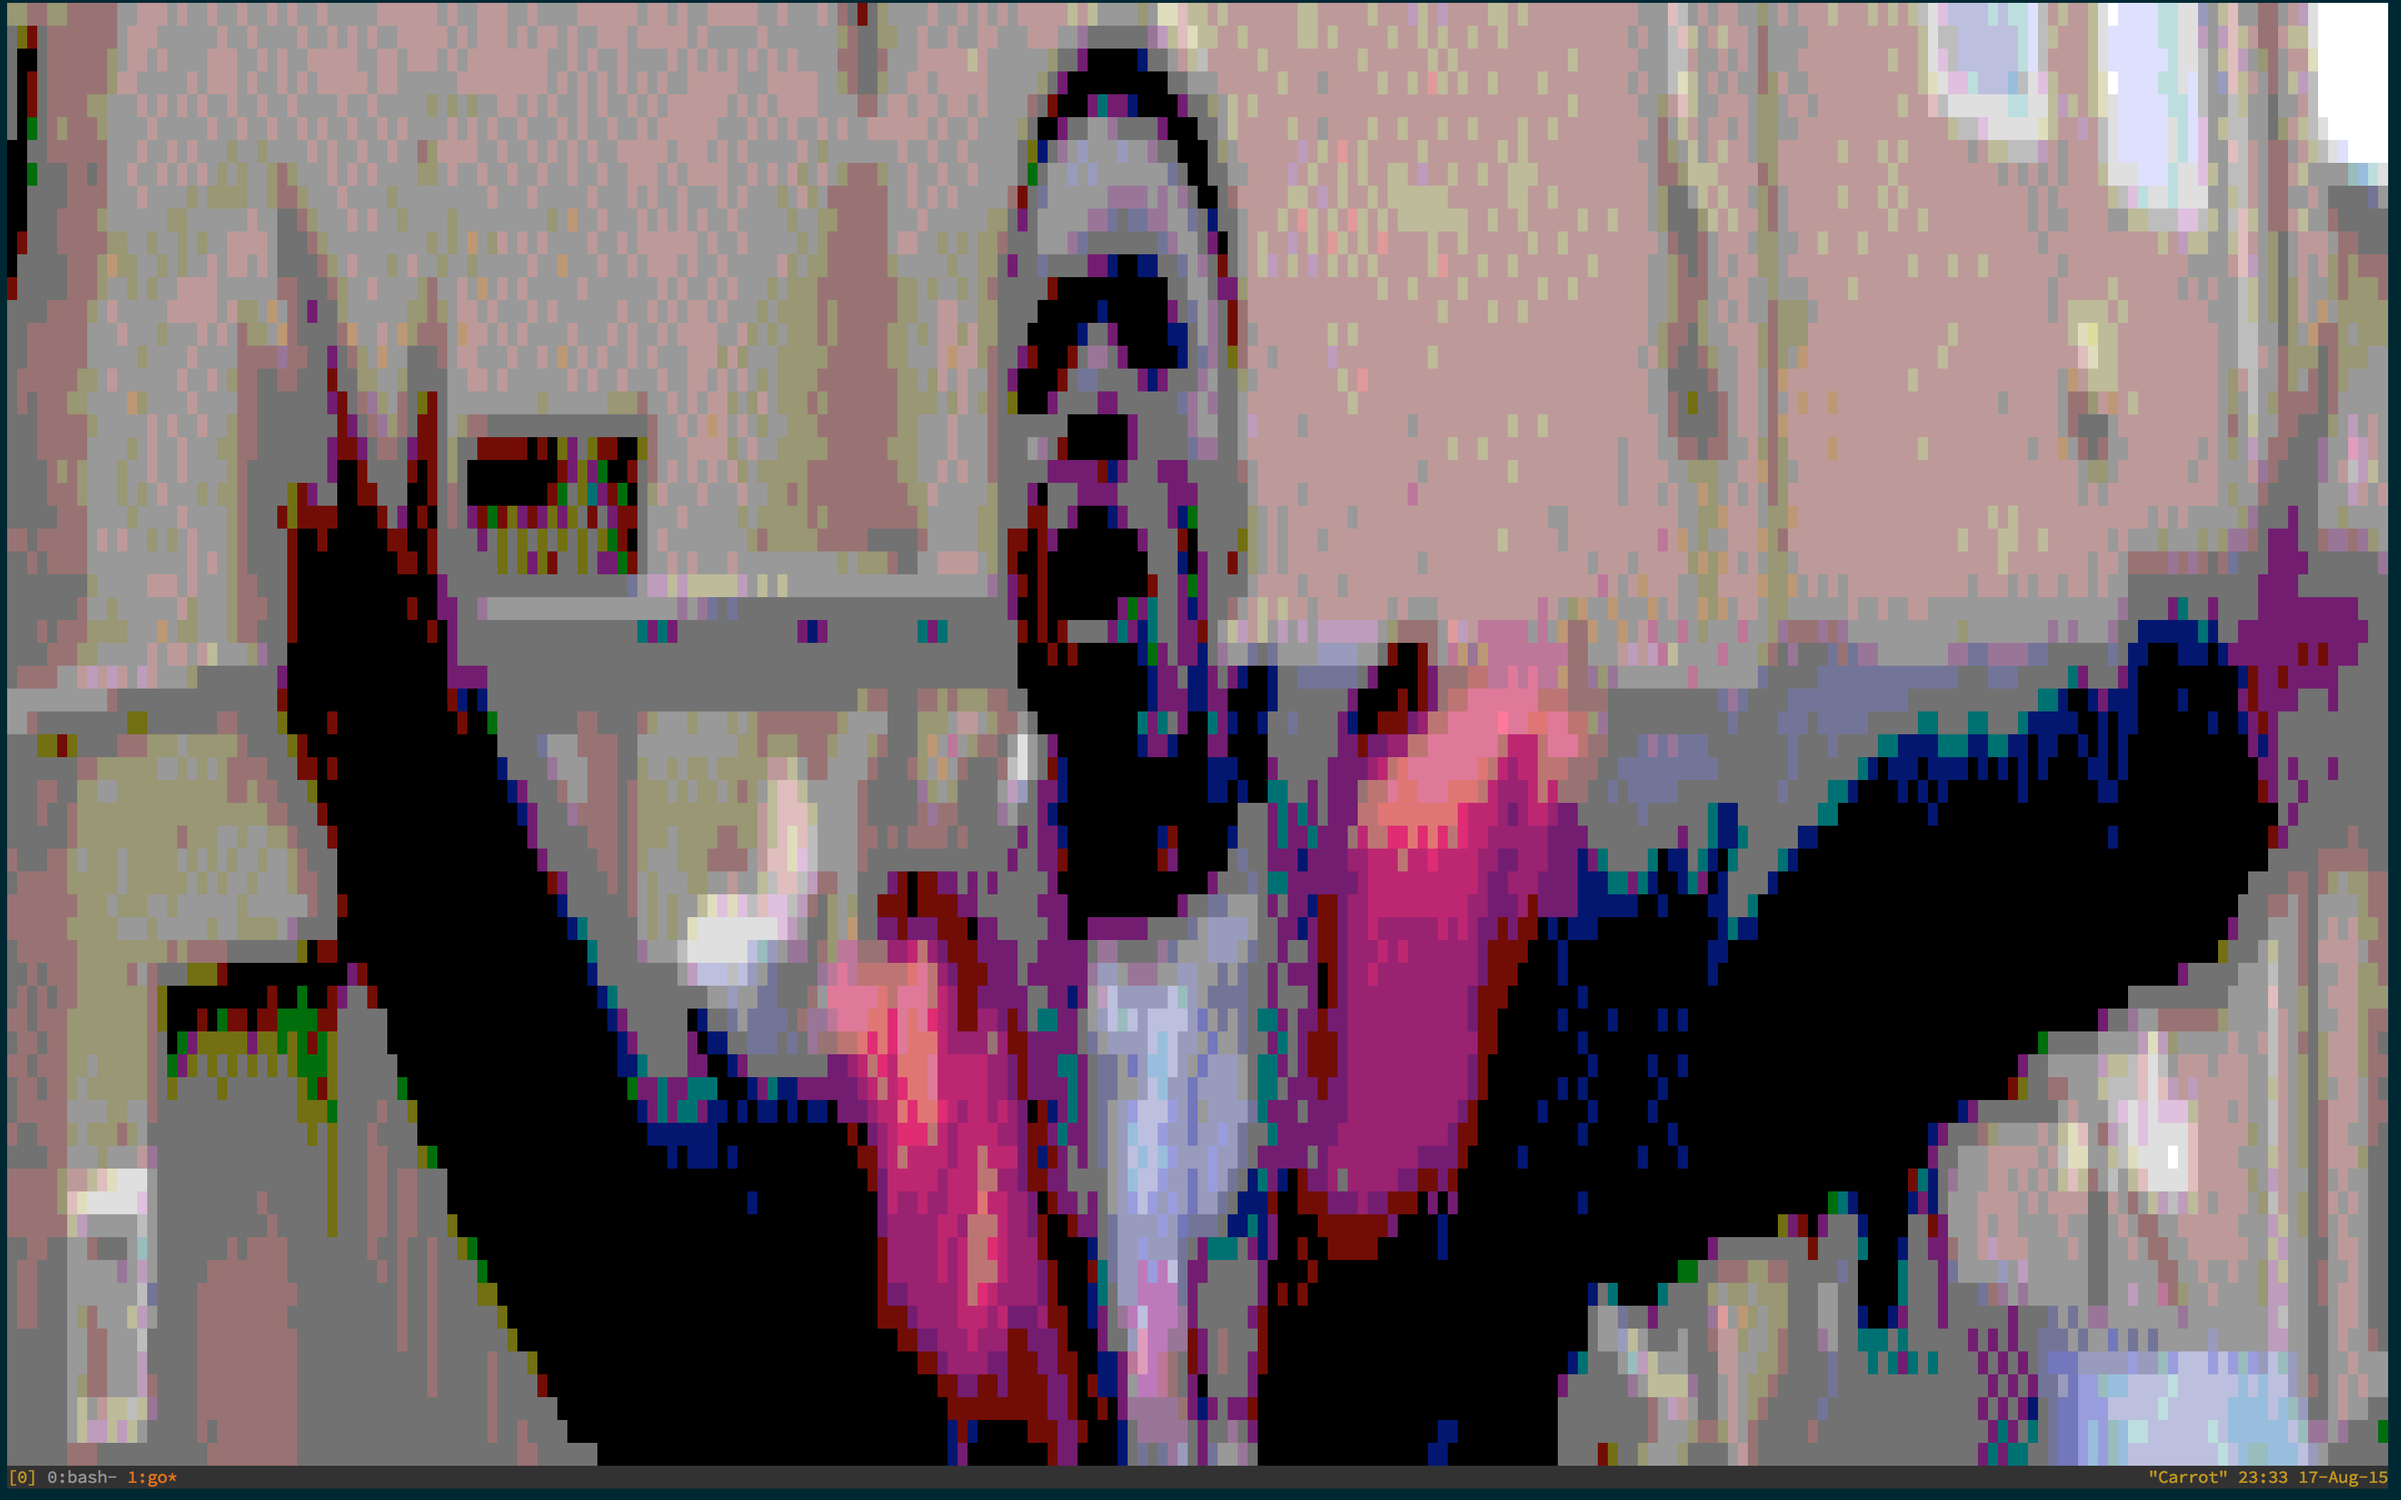
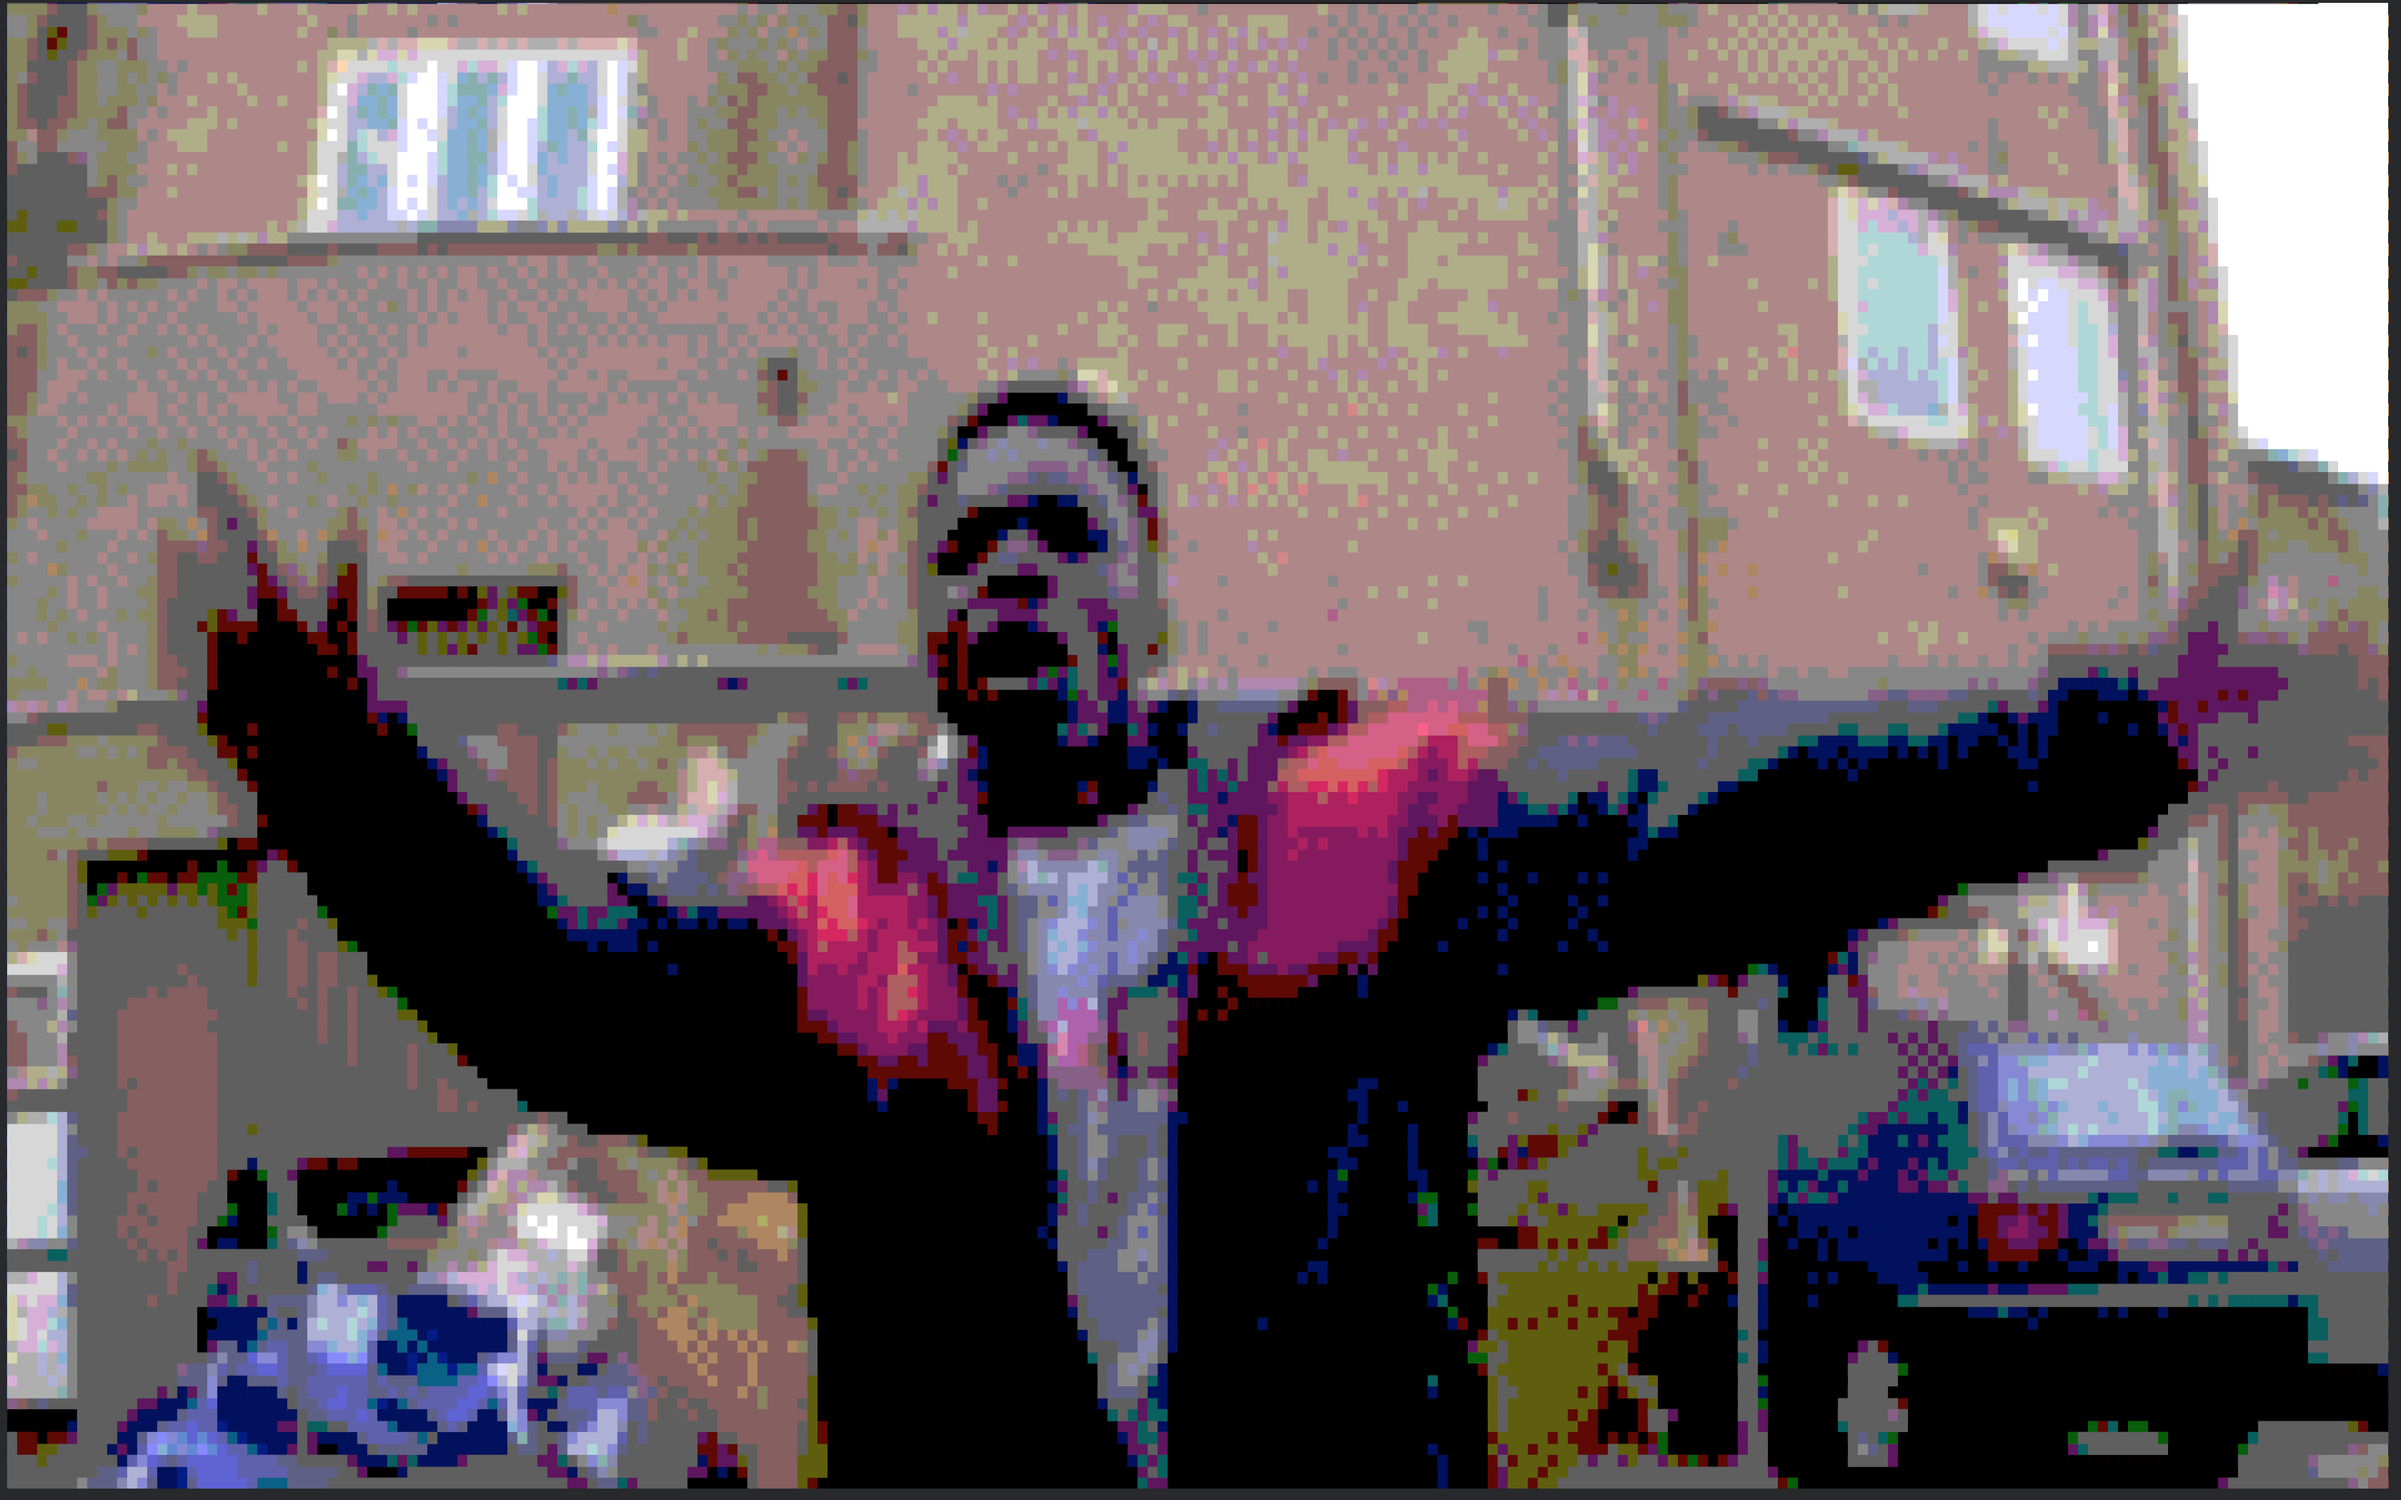
Implement 'pixel mode'.
Pixel mode allows Termloop to draw two 'pixels' to each terminal
character, using the half-block Unicode character. This gives double the
screen height, at the expense of the ability to draw text.

diff --git a/screen.go b/screen.go
@@ -16,6 +16,7 @@ type Screen struct {
 	fps       float64
 	offsetx   int
 	offsety   int
+	pixelMode bool
 }
 
 // NewScreen creates a new Screen, with no entities or level.
@@ -55,12 +56,10 @@ func (s *Screen) Draw() {
 	// Check if anything changed between Draws
 	if !s.canvas.equals(&s.oldCanvas) {
 		// Draw to terminal
-		for i, col := range s.canvas {
-			for j, cell := range col {
-				termbox.SetCell(i, j, cell.Ch,
-					termbox.Attribute(cell.Fg),
-					termbox.Attribute(cell.Bg))
-			}
+		if s.pixelMode {
+			termboxPixel(&s.canvas)
+		} else {
+			termboxNormal(&s.canvas)
 		}
 		termbox.Flush()
 	}
@@ -70,10 +69,13 @@ func (s *Screen) Draw() {
 func (s *Screen) resize(w, h int) {
 	s.width = w
 	s.height = h
-	c := NewCanvas(w, h)
+	if s.pixelMode {
+		s.height *= 2
+	}
+	c := NewCanvas(s.width, s.height)
 	// Copy old data that fits
-	for i := 0; i < min(w, len(s.canvas)); i++ {
-		for j := 0; j < min(h, len(s.canvas[0])); j++ {
+	for i := 0; i < min(s.width, len(s.canvas)); i++ {
+		for j := 0; j < min(s.height, len(s.canvas[0])); j++ {
 			c[i][j] = s.canvas[i][j]
 		}
 	}
@@ -135,6 +137,12 @@ func (s *Screen) RenderCell(x, y int, c *Cell) {
 	}
 }
 
+// EnablePixelMode sets the screen to 'pixel mode' - giving double
+// the canvas height while sacrificing character drawing ability.
+func (s *Screen) EnablePixelMode() {
+	s.pixelMode = true
+}
+
 func (s *Screen) offset() (int, int) {
 	return s.offsetx, s.offsety
 }
@@ -153,4 +161,32 @@ func renderCell(old, new_ *Cell) {
 	if new_.Fg != 0 {
 		old.Fg = new_.Fg
 	}
+}
+
+func termboxPixel(canvas *Canvas) {
+	for i, col := range *canvas {
+		for j := 0; j < len(col); j += 2 {
+			cellBack := col[j]
+			cellFront := col[j+1]
+			termj := j / 2
+			char := '\u2584'
+			if cellFront.Bg == 0 {
+				char = 0
+			}
+			termbox.SetCell(i, termj, char,
+				termbox.Attribute(cellFront.Bg),
+				termbox.Attribute(cellBack.Bg))
+		}
+	}
+}
+
+func termboxNormal(canvas *Canvas) {
+	for i, col := range *canvas {
+		for j, cell := range col {
+			termbox.SetCell(i, j, cell.Ch,
+				termbox.Attribute(cell.Fg),
+				termbox.Attribute(cell.Bg))
+		}
+	}
+
 }

diff --git a/_examples/image.go b/_examples/image.go
@@ -1,6 +1,6 @@
 package main
 
-// A very simple image viewer
+// A very simple image viewer, which uses Termloop's pixel mode
 
 import (
 	"fmt"
@@ -45,6 +45,7 @@ func main() {
 	}
 
 	g := tl.NewGame()
+	g.Screen().EnablePixelMode()
 	c := tl.BackgroundCanvasFromFile(os.Args[1])
 	g.Screen().AddEntity(NewImage(c))
 	g.Start()

diff --git a/_examples/README.md b/_examples/README.md
@@ -46,6 +46,8 @@ To run:
 
 This example shows Termloop's image loading capabilities. Simply run the example with a path to an image as the first parameter, and you'll see a very simple image viewer. It can load PNG, JPEG or GIF images. Here's an example of what it looks like showing [Tempa T](http://www.youtube.com/watch?v=OZ6G7qwjom4).
 
+This example makes use of Termloop's **pixel mode**. This splits terminal characters into two, giving double the available screen height, while sacrificing the ability to draw text.
+
 ![](images/image.png)
 
 ## entityfromfile.go
